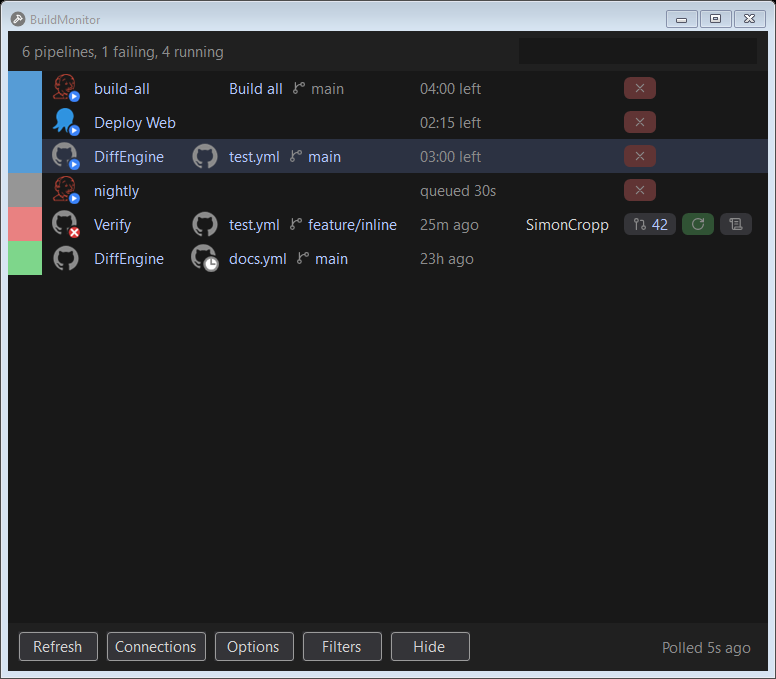
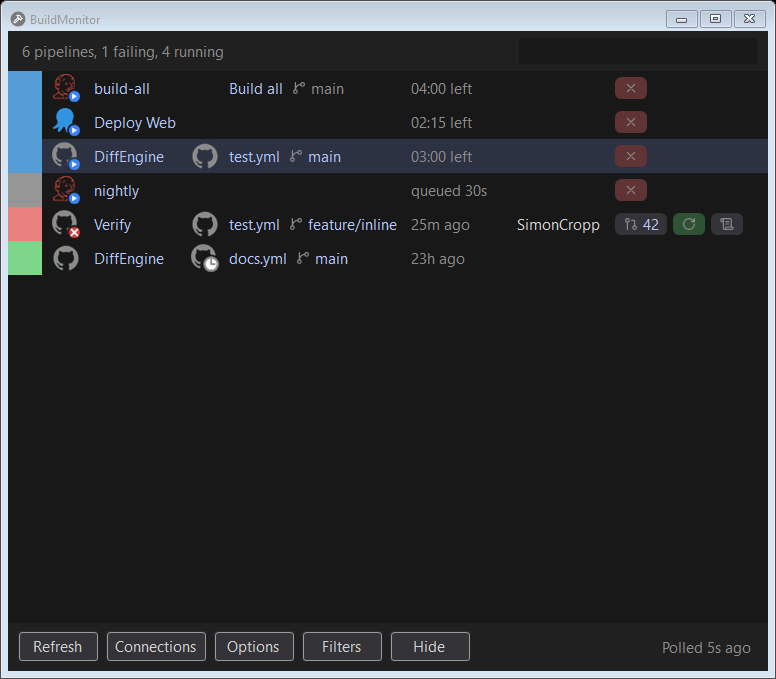
Size and draw the detail cell from the same offsets
DetailOffset gives how far into its cell a detail has got after some of its text and marks. ColumnWidths sizes the column from where that ends each detail and DrawDetail starts each run at it, both measuring with the flags the runs are drawn with.

Two things change. The column loses the padding it was sized with and the runs never drew, so while the chips are giving way everything after the detail sits nine pixels further left, which is the Narrow baseline. And a run is no longer measured with an ampersand read as a mnemonic, which drew the branch of a pipeline named 'Build & Test' over the end of it.

diff --git a/src/BuildMonitor.Windows.Tests/RowsCanvasTests.cs b/src/BuildMonitor.Windows.Tests/RowsCanvasTests.cs
@@ -306,9 +306,134 @@ public class RowsCanvasTests
             branchUrl: $"https://github.com/VerifyTests/{name}/tree/main");
 
     /// <summary>
+    /// While the chips are giving way the detail column is exactly as wide as it was sized, so the
+    /// row with the widest detail has no slack, as the widest name has none in its column. Compared
+    /// as pixels with the same row drawn with room to spare, because an ellipsis moves no link, and
+    /// at a width found by narrowing the canvas, because where the chips start to give way depends
+    /// on the fonts of the machine running the test.
+    /// </summary>
+    [Test]
+    public async Task TheWidestDetailIsDrawnInFullWhileTheChipsGiveWay()
+    {
+        var state = Fixtures.WithBuilds();
+        var row = FailedRow();
+        var page = ScreenBuilder.Build(state, Fixtures.Now).Builds!;
+        using var roomy = Drawn(1000, state);
+        var widest = page.Details.MaxBy(_ => TextRenderer.MeasureText(_, roomy.Font, Size.Empty, TextFormatFlags.NoPadding | TextFormatFlags.NoPrefix).Width);
+        await Assert.That(string.Concat(page.Rows[row].Detail.Select(_ => _.Text))).IsEqualTo(widest);
+
+        using var squeezed = Squeezed(state, row, page.Rows[row].Chips[0].Kind);
+        var pipeline = LinkSpan(roomy, row, ChipKind.Pipeline);
+        var branch = LinkSpan(roomy, row, ChipKind.Branch);
+        await Assert.That(LinkSpan(squeezed, row, ChipKind.Branch)).IsEqualTo(branch);
+
+        var strip = new Rectangle(pipeline.Left, roomy.RowHeight * row, branch.Right - pipeline.Left + 1, roomy.RowHeight);
+        await Assert.That(Pixels(squeezed, strip).SequenceEqual(Pixels(roomy, strip))).IsTrue();
+    }
+
+    /// <summary>
+    /// A run's link is as wide as the run was measured, and the next run starts where it ends.
+    /// Measured without the flag it is drawn with, an ampersand was read as a mnemonic and left out
+    /// of the width, so the link stopped short and the branch was drawn over the pipeline's end.
+    /// </summary>
+    [Test]
+    public async Task ARunWithAnAmpersandIsMeasuredAsItIsDrawn()
+    {
+        const string pipeline = "Build & Test";
+        var state = MonitorSession.ApplyPoll(
+            Fixtures.WithBuilds(),
+            Fixtures.GitHub.Id,
+            [],
+            [
+                ..Fixtures.GitHubBuilds(),
+                Fixtures.Build(
+                    Fixtures.GitHub.Id,
+                    "Reports/build.yml",
+                    pipeline,
+                    "VerifyTests/Reports",
+                    "main",
+                    "9",
+                    BuildStatus.Failed,
+                    started: Fixtures.Now - TimeSpan.FromMinutes(10),
+                    finished: Fixtures.Now - TimeSpan.FromMinutes(8),
+                    branchUrl: "https://github.com/VerifyTests/Reports/tree/main")
+            ],
+            Fixtures.Now - TimeSpan.FromSeconds(12));
+        using var canvas = Drawn(1000, state);
+        var row = Fixtures.RowOf(state, _ => _.Build?.PipelineName == pipeline);
+        var text = TextRenderer.MeasureText(pipeline, canvas.Font, Size.Empty, TextFormatFlags.NoPadding | TextFormatFlags.NoPrefix).Width;
+        await Assert.That(LinkWidth(canvas, row, ChipKind.Pipeline)).IsEqualTo(text);
+    }
+
+    /// <summary>
+    /// The canvas narrowed until the row keeps its first chip and puts the rest behind the overflow
+    /// chip: the chips column has given up some of its width and still has some left, which is when
+    /// the name and detail columns are exactly as wide as they were sized.
+    /// </summary>
+    static RowsCanvas Squeezed(SessionState state, int row, ChipKind first)
+    {
+        for (var width = 1000; width > 300; width -= 4)
+        {
+            var canvas = Drawn(width, state);
+            var from = OverflowFrom(canvas, row);
+            if (from != ChipKind.None &&
+                from != first)
+            {
+                return canvas;
+            }
+
+            canvas.Dispose();
+        }
+
+        throw new("No width puts some of the row's chips behind the overflow chip");
+    }
+
+    /// <summary>
+    /// The first of the chips the row's overflow chip stands in for, or none where it has no
+    /// overflow chip.
+    /// </summary>
+    static ChipKind OverflowFrom(RowsCanvas canvas, int row)
+    {
+        var y = canvas.RowHeight * row + canvas.RowHeight / 2;
+        for (var x = canvas.Width - 1; x >= 0; x -= 2)
+        {
+            Click(canvas, MouseButtons.Left, x, y);
+            var input = canvas.Drain();
+            if (input.ClickedOverflowRow == row)
+            {
+                return input.OverflowFrom;
+            }
+        }
+
+        return ChipKind.None;
+    }
+
+    static List<int> Pixels(RowsCanvas canvas, Rectangle area)
+    {
+        using var bitmap = new Bitmap(canvas.Width, canvas.Height);
+        canvas.DrawToBitmap(bitmap, new(0, 0, canvas.Width, canvas.Height));
+        var pixels = new List<int>();
+        for (var y = area.Top; y < area.Bottom; y++)
+        {
+            for (var x = area.Left; x < area.Right; x++)
+            {
+                pixels.Add(bitmap.GetPixel(x, y).ToArgb());
+            }
+        }
+
+        return pixels;
+    }
+
+    /// <summary>
     /// How far along a row a link runs, from the first pixel that reports it to the last.
     /// </summary>
     static int LinkWidth(RowsCanvas canvas, int row, ChipKind link)
+    {
+        var (left, right) = LinkSpan(canvas, row, link);
+        return right - left + 1;
+    }
+
+    static (int Left, int Right) LinkSpan(RowsCanvas canvas, int row, ChipKind link)
     {
         var y = canvas.RowHeight * row + canvas.RowHeight / 2;
         var reported = new List<int>();
@@ -321,7 +446,7 @@ public class RowsCanvasTests
             }
         }
 
-        return reported.Max() - reported.Min() + 1;
+        return (reported.Min(), reported.Max());
     }
 
     /// <summary>

diff --git a/src/BuildMonitor.Windows/RowsCanvas.cs b/src/BuildMonitor.Windows/RowsCanvas.cs
@@ -32,12 +32,14 @@ sealed class RowsCanvas : Control
     const int tipDuration = 20000;
     // Clear of the pointer, so the text is not under the hand that asked for it.
     const int tipOffset = 18;
-    // Without padding, so each run of the detail starts where the text before it ended.
+    // The flags that decide how wide a run of the detail is, which it is both measured and drawn
+    // with. Without padding, so each run starts where the text before it ended.
+    const TextFormatFlags runWidthFlags = TextFormatFlags.NoPrefix |
+                                          TextFormatFlags.NoPadding;
     const TextFormatFlags runFlags = TextFormatFlags.Left |
                                      TextFormatFlags.VerticalCenter |
                                      TextFormatFlags.EndEllipsis |
-                                     TextFormatFlags.NoPrefix |
-                                     TextFormatFlags.NoPadding;
+                                     runWidthFlags;
     // Stands in for the chips a row has no room for, and opens the drop down that holds them.
     const string overflowLabel = "…";
     // Between a chip's icon and the text after it, where it has both.
@@ -508,13 +510,14 @@ sealed class RowsCanvas : Control
             .Select(_ => _.Indent + _.Mark + _.Text)
             .DefaultIfEmpty()
             .Max();
-        // Forty characters at most: past that a long pipeline or branch is cut short rather than
-        // pushing every row's chips into the drop down. The details are text alone, so the branch's
-        // mark is added on top once any row draws one.
-        var spanIcons = builds.Rows.Any(_ => _.Detail.Any(_ => _.Icon.Length > 0)) ? SpanIconWidth() : 0;
-        var detailWanted = iconWidth + spanIcons + Math.Min(
-            builds.Details.Select(_ => MeasureName(_, Font)).DefaultIfEmpty().Max(),
-            MeasureName(new('0', 40), Font));
+        // Where DrawDetail ends the widest detail, by the offsets it draws at. Forty characters at
+        // most: past that a long pipeline or branch is cut short rather than pushing every row's
+        // chips into the drop down. The details are text alone, without saying which carry the
+        // branch's mark, so each is taken to once any row draws one.
+        var marks = builds.Rows.Any(_ => _.Detail.Any(_ => _.Icon.Length > 0)) ? 1 : 0;
+        var detailWanted = iconWidth + Math.Min(
+            builds.Details.Select(_ => DetailOffset(_, marks)).DefaultIfEmpty().Max(),
+            DetailOffset(new('0', 40), marks));
         var widest = WidestChips();
         var bar = LogicalToDeviceUnits(barLength);
         var barWidth = available - bar - gap - nameWanted - detailWanted >= widest ? bar : 0;
@@ -749,10 +752,10 @@ sealed class RowsCanvas : Control
     {
         var right = x + width;
         var before = "";
-        var icons = 0;
+        var marks = 0;
         foreach (var span in row.Detail)
         {
-            var left = x + icons + Measure(before);
+            var left = x + DetailOffset(before, marks);
             if (left >= right)
             {
                 return;
@@ -771,10 +774,10 @@ sealed class RowsCanvas : Control
                 }
 
                 Icons.Draw(graphics, span.Icon, new(left, bounds.Top + (bounds.Height - side) / 2, side, side));
-                icons += SpanIconWidth();
+                marks++;
             }
 
-            var textLeft = x + icons + Measure(before);
+            var textLeft = x + DetailOffset(before, marks);
             before += span.Text;
             var cell = new Rectangle(textLeft, bounds.Top, Math.Max(0, right - textLeft), bounds.Height);
             if (span.Link == ChipKind.None)
@@ -783,11 +786,31 @@ sealed class RowsCanvas : Control
                 continue;
             }
 
-            var link = LinkBounds(left, Math.Min(x + icons + Measure(before), right) - left, bounds);
+            var link = LinkBounds(left, Math.Min(x + DetailOffset(before, marks), right) - left, bounds);
             TextRenderer.DrawText(graphics, span.Text, link == hoverLink ? underline : Font, cell, Palette.ChipText, runFlags);
             chips.Add((index, span.Link, false, link));
             Tip(index, link, row.Tooltip(span.Link == ChipKind.Branch ? RowPart.Branch : RowPart.Pipeline));
         }
+    }
+
+    /// <summary>
+    /// How far into its cell a detail has got once <paramref name="text"/> is drawn behind
+    /// <paramref name="marks"/> of its runs' icons. <see cref="ColumnWidths"/> sizes the column
+    /// from where this puts the end of each detail and <see cref="DrawDetail"/> starts each run at
+    /// it, so the column is as wide as what is drawn in it. Measured with the flags that decide a
+    /// run's width as it is drawn: the column was sized with the padding the runs leave out, and
+    /// the runs placed by a measure that read an ampersand as a mnemonic, so the branch of a
+    /// pipeline named "Build &amp; Test" was drawn over the end of it.
+    /// </summary>
+    int DetailOffset(string text, int marks)
+    {
+        var offset = marks * SpanIconWidth();
+        if (text.Length == 0)
+        {
+            return offset;
+        }
+
+        return offset + TextWidth(text, Font, runWidthFlags);
     }
 
     /// <summary>
